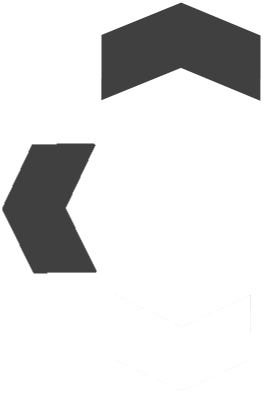
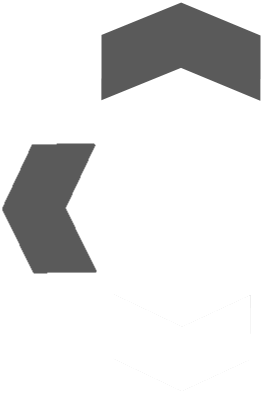
Guard added

Changed region(s): [[0.3569, 0.0, 0.9814, 0.27], [0.0, 0.36, 0.3569, 0.69]]

diff --git a/RPG/Scripts/Characters/CharacterDamage.cs b/RPG/Scripts/Characters/CharacterDamage.cs
@@ -1,5 +1,6 @@
 using Godot;
 using System;
+using System.Collections.Generic;
 
 public class CharacterDamage : Node
 {
@@ -11,10 +12,19 @@ public class CharacterDamage : Node
     private bool missed = false;
     private int guardDir = 0;
     private Timer timer;
+    private bool alreadyChosen = false;
+    private AnimatedSprite guard;
     // Called when the node enters the scene tree for the first time.
     public override void _Ready()
     {
         stats = GetParent().GetNode("Stats") as Stats;
+
+        if (stats.GetCharName() == "Boss")
+        {
+            guard = GetParent().GetNode("Guard") as AnimatedSprite;
+            guard.Visible = false;
+        } 
+
         Player playerScript = GetParent() as Player;
 
         if (playerScript == null)
@@ -42,7 +52,8 @@ public class CharacterDamage : Node
         GD.Print(missed + " " + luk + " " + num + " is player: " + player);
         timer = GetParent().GetNode<Timer>("GuardTimer");
         timer.Start();
-        choosing = true;
+        choosing = true;    
+        guard.Visible = true;    
         if (player)
         {
             chooseGuardDir = true;
@@ -61,16 +72,28 @@ public class CharacterDamage : Node
             GuardDirection();
         }
 
-        if (choosing && timer.IsStopped())
+        if (choosing)
         {
-            choosing = false;
-            ReceiveDamage();
+            GD.Print("Busy..." + timer.TimeLeft);
+            if (timer.TimeLeft < 0.1f)
+            {
+                if (!alreadyChosen)
+                {
+                    EnemyGuardChoose();
+                    alreadyChosen = true;
+                }                
+            }
+            if (timer.TimeLeft == 0)
+            {
+                timer.Stop();
+                choosing = false;
+                ReceiveDamage();
+            }            
         }
     }
 
     private void GuardDirection()
     {
-
         if (Input.IsActionPressed("ui_up"))
         {
             guardDir = 1;
@@ -83,6 +106,19 @@ public class CharacterDamage : Node
         {
             guardDir = 0;
         } 
+
+        switch (guardDir)
+        {            
+            case -1:
+            guard.Play("Down");
+            break;
+            case 0:
+            guard.Play("Forward");
+            break;
+            case 1:
+            guard.Play("Up");
+            break;
+        }
     }
 
     private void EnemyGuardChoose()
@@ -91,12 +127,23 @@ public class CharacterDamage : Node
         guardDir = rand.Next() % 3 - 1;
 
         GD.Print(guardDir);
+
+        switch (guardDir)
+        {            
+            case -1:
+            guard.Play("Down");
+            break;
+            case 0:
+            guard.Play("Forward");
+            break;
+            case 1:
+            guard.Play("Up");
+            break;
+        }
     }
 
     private void ReceiveDamage()
     {
-        EnemyGuardChoose();
-
         float damage = 0;
 
         if (!missed)
@@ -107,6 +154,9 @@ public class CharacterDamage : Node
         if (attackerStats.GetParent<Player>().GetAttackDirection() == guardDir)
         {
             damage /= 2;
+            GD.Print("You hit their shield!");
         }
+
+        GD.Print(attackerStats.GetCharName() + " did " + damage + " damage to " + stats.GetCharName());
     }
 }
